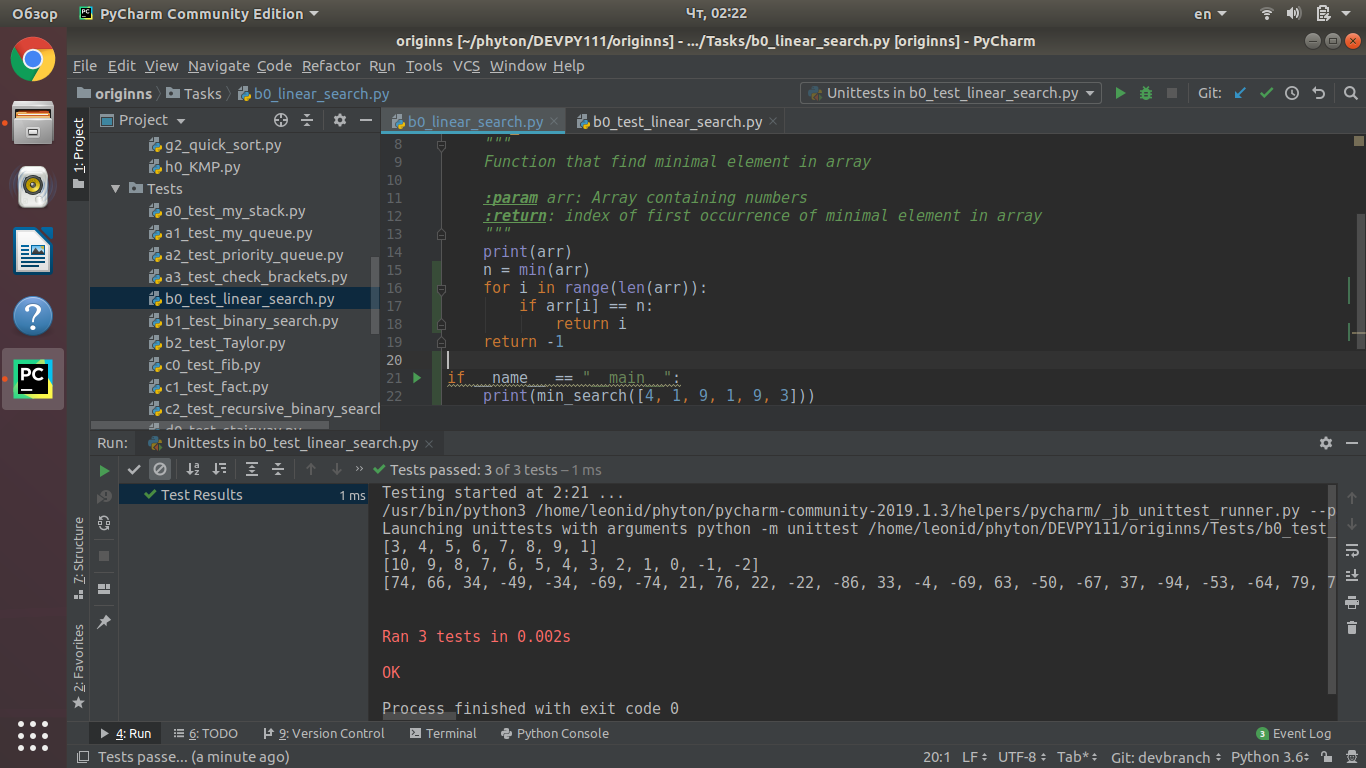
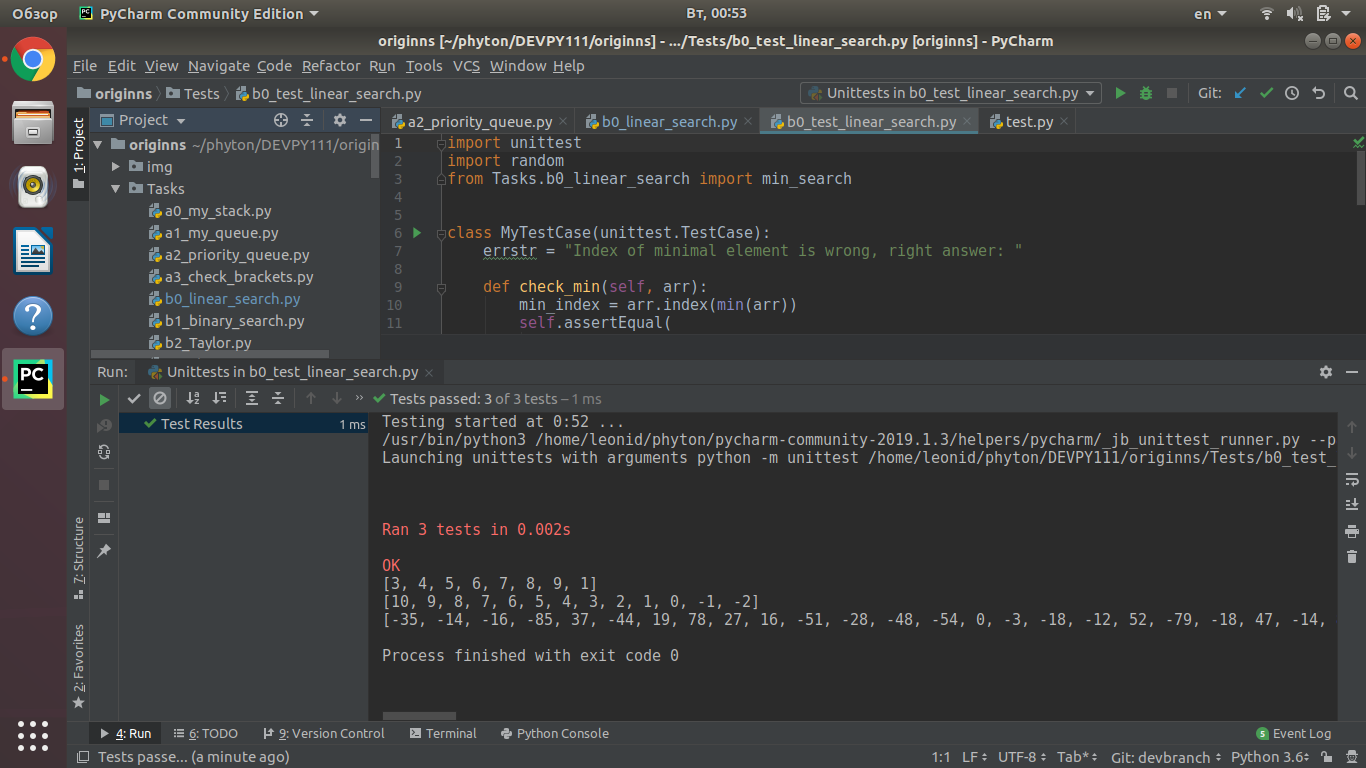
переделал b0_linear_search

diff --git a/Tasks/b0_linear_search.py b/Tasks/b0_linear_search.py
@@ -12,11 +12,13 @@ def min_search(arr: Sequence) -> int:
 	:return: index of first occurrence of minimal element in array
 	"""
 	print(arr)
-	n = min(arr)
-	for i in range(len(arr)):
-		if arr[i] == n:
-			return i
-	return -1
+	min_index = None
+	min_elem = arr[0]
+	for i in range(1, len(arr)):
+		if min_elem > arr[i]:
+			min_elem = arr[i]
+			min_index = i
+	return min_index
 
 if __name__ == "__main__":
 	print(min_search([4, 1, 9, 1, 9, 3]))
